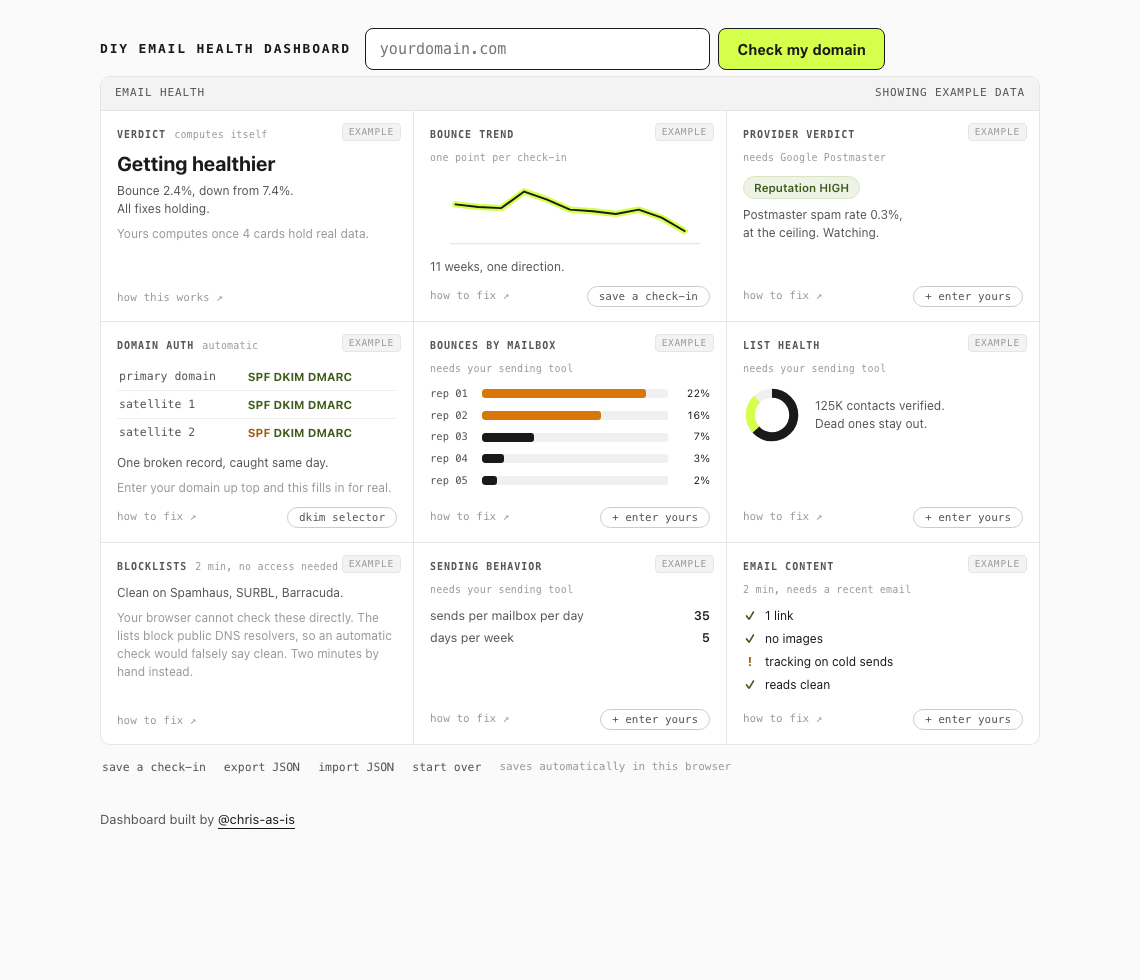
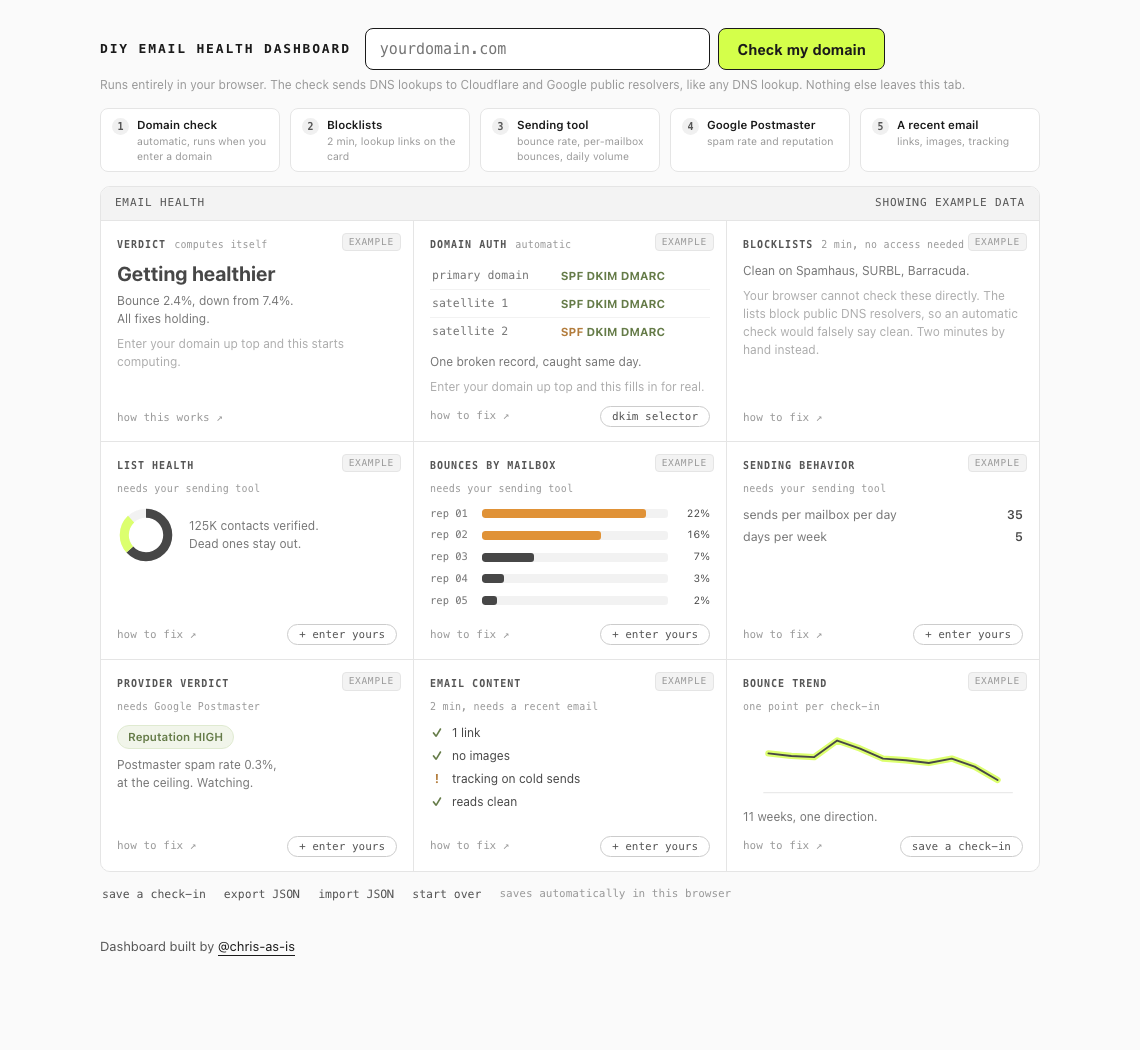
auto row on top (verdict/auth/blocklists), ungated early-read verdict, trust line under CTA, raw records toggle
Panel-driven: verdict computes from real cards immediately, headline from
auth findings; sending-tool trio row 2; provider/content/trend row 3.

Claude-Session: https://claude.ai/code/session_016zrwqH3m7942cdaawiKVr4

diff --git a/index.html b/index.html
@@ -81,8 +81,30 @@
   }
   .domain-form button:hover { background: #c8f53a; }
   .domain-form button:disabled { opacity: 0.5; cursor: default; }
-  .tagline { font-size: 13px; color: var(--ink-soft); margin: 0 0 18px; }
-  .tagline a { color: var(--ink-soft); }
+  .trustline { font-size: 12px; color: var(--ink-faint); margin: 2px 0 14px; }
+
+  /* raw records disclosure */
+  .raw { margin-top: 9px; }
+  .raw summary {
+    font-family: var(--mono);
+    font-size: 10.5px;
+    color: var(--ink-faint);
+    cursor: pointer;
+    user-select: none;
+  }
+  .raw summary:hover { color: var(--ink); }
+  .raw-rec {
+    font-family: var(--mono);
+    font-size: 10px;
+    color: var(--ink-soft);
+    background: #f7f7f7;
+    border-radius: 6px;
+    padding: 7px 9px;
+    margin: 6px 0 0;
+    white-space: pre-wrap;
+    word-break: break-all;
+    line-height: 1.55;
+  }
 
   /* ---------- scan log ---------- */
   .scan {
@@ -492,6 +514,7 @@
       <button type="submit" id="checkBtn">Check my domain</button>
     </form>
   </div>
+  <p class="trustline">Runs entirely in your browser. The check sends DNS lookups to Cloudflare and Google public resolvers, like any DNS lookup. Nothing else leaves this tab.</p>
 
   <div class="scan" id="scan" role="status" aria-live="polite"></div>
 
@@ -501,6 +524,7 @@
     <div class="dash-bar"><span>email health</span><span id="barRight">updated by you</span></div>
     <div class="grid" id="grid">
 
+
       <div class="card" id="card-verdict">
         <div class="card-head"><span class="card-h">Verdict</span><span class="chip">computes itself</span></div>
         <div class="card-body" id="body-verdict"></div>
@@ -509,6 +533,77 @@
           <span></span>
         </div>
       </div>
+
+
+      <div class="card" id="card-auth">
+        <div class="card-head"><span class="card-h">Domain auth</span><span class="chip">automatic</span></div>
+        <div class="card-body" id="body-auth"></div>
+        <div class="card-foot">
+          <a class="fix-link" href="https://chris-as-is.com/projects/spam-jail#domain-auth" target="_blank" rel="noopener" data-tip="Add missing SPF, DKIM, or DMARC records at your DNS provider. DMARC reports should be sent to a monitored inbox.">how to fix &#8599;</a>
+          <button class="edit-link" data-pop="auth">dkim selector</button>
+        </div>
+      </div>
+
+
+      <div class="card" id="card-blocklists">
+        <div class="card-head"><span class="card-h">Blocklists</span><span class="chip">2 min, no access needed</span></div>
+        <div class="card-body" id="body-blocklists"></div>
+        <div class="card-foot">
+          <a class="fix-link" href="https://chris-as-is.com/projects/spam-jail#blocklists" target="_blank" rel="noopener" data-tip="If a domain is listed, follow that blocklist's removal process before making other changes.">how to fix &#8599;</a>
+          <span></span>
+        </div>
+      </div>
+
+
+      <div class="card" id="card-list">
+        <div class="card-head"><span class="card-h">List health</span><span class="chip">needs your sending tool</span></div>
+        <div class="card-body" id="body-list"></div>
+        <div class="card-foot">
+          <a class="fix-link" href="https://chris-as-is.com/projects/spam-jail#list-health" target="_blank" rel="noopener" data-tip="Verify email addresses before sending and remove addresses that fail verification. Bounce rate falls as invalid addresses leave the list.">how to fix &#8599;</a>
+          <button class="edit-link" data-pop="list">+ enter yours</button>
+        </div>
+      </div>
+
+
+      <div class="card" id="card-mailboxes">
+        <div class="card-head"><span class="card-h">Bounces by mailbox</span><span class="chip">needs your sending tool</span></div>
+        <div class="card-body" id="body-mailboxes"></div>
+        <div class="card-foot">
+          <a class="fix-link" href="https://chris-as-is.com/projects/spam-jail#mailbox-health" target="_blank" rel="noopener" data-tip="Identify mailboxes with high bounce rates, remove the invalid addresses they emailed, and reduce their sending until rates recover.">how to fix &#8599;</a>
+          <button class="edit-link" data-pop="mailboxes">+ enter yours</button>
+        </div>
+      </div>
+
+
+      <div class="card compact" id="card-sending">
+        <div class="card-head"><span class="card-h">Sending behavior</span><span class="chip">needs your sending tool</span></div>
+        <div class="card-body" id="body-sending"></div>
+        <div class="card-foot">
+          <a class="fix-link" href="https://chris-as-is.com/projects/spam-jail#sending-behavior" target="_blank" rel="noopener" data-tip="Lower sends per mailbox per day and spread sending across the week. Around 50 per day per mailbox is a common ceiling.">how to fix &#8599;</a>
+          <button class="edit-link" data-pop="sending">+ enter yours</button>
+        </div>
+      </div>
+
+
+      <div class="card" id="card-provider">
+        <div class="card-head"><span class="card-h">Provider verdict</span><span class="chip">needs Google Postmaster</span></div>
+        <div class="card-body" id="body-provider"></div>
+        <div class="card-foot">
+          <a class="fix-link" href="https://chris-as-is.com/projects/spam-jail#provider-verdict" target="_blank" rel="noopener" data-tip="There is no direct fix for this number. It improves as the other cards improve. Set up Google Postmaster Tools to track it.">how to fix &#8599;</a>
+          <button class="edit-link" data-pop="provider">+ enter yours</button>
+        </div>
+      </div>
+
+
+      <div class="card compact" id="card-content">
+        <div class="card-head"><span class="card-h">Email content</span><span class="chip">2 min, needs a recent email</span></div>
+        <div class="card-body" id="body-content"></div>
+        <div class="card-foot">
+          <a class="fix-link" href="https://chris-as-is.com/projects/spam-jail#email-content" target="_blank" rel="noopener" data-tip="Use plain text with at most one link. Disable open and click tracking on cold outreach.">how to fix &#8599;</a>
+          <button class="edit-link" data-pop="content">+ enter yours</button>
+        </div>
+      </div>
+
 
       <div class="card" id="card-trend">
         <div class="card-head"><span class="card-h">Bounce trend</span><span class="chip">one point per check-in</span></div>
@@ -520,68 +615,6 @@
         </div>
       </div>
 
-      <div class="card" id="card-provider">
-        <div class="card-head"><span class="card-h">Provider verdict</span><span class="chip">needs Google Postmaster</span></div>
-        <div class="card-body" id="body-provider"></div>
-        <div class="card-foot">
-          <a class="fix-link" href="https://chris-as-is.com/projects/spam-jail#provider-verdict" target="_blank" rel="noopener" data-tip="There is no direct fix for this number. It improves as the other cards improve. Set up Google Postmaster Tools to track it.">how to fix &#8599;</a>
-          <button class="edit-link" data-pop="provider">+ enter yours</button>
-        </div>
-      </div>
-
-      <div class="card" id="card-auth">
-        <div class="card-head"><span class="card-h">Domain auth</span><span class="chip">automatic</span></div>
-        <div class="card-body" id="body-auth"></div>
-        <div class="card-foot">
-          <a class="fix-link" href="https://chris-as-is.com/projects/spam-jail#domain-auth" target="_blank" rel="noopener" data-tip="Add missing SPF, DKIM, or DMARC records at your DNS provider. DMARC reports should be sent to a monitored inbox.">how to fix &#8599;</a>
-          <button class="edit-link" data-pop="auth">dkim selector</button>
-        </div>
-      </div>
-
-      <div class="card" id="card-mailboxes">
-        <div class="card-head"><span class="card-h">Bounces by mailbox</span><span class="chip">needs your sending tool</span></div>
-        <div class="card-body" id="body-mailboxes"></div>
-        <div class="card-foot">
-          <a class="fix-link" href="https://chris-as-is.com/projects/spam-jail#mailbox-health" target="_blank" rel="noopener" data-tip="Identify mailboxes with high bounce rates, remove the invalid addresses they emailed, and reduce their sending until rates recover.">how to fix &#8599;</a>
-          <button class="edit-link" data-pop="mailboxes">+ enter yours</button>
-        </div>
-      </div>
-
-      <div class="card" id="card-list">
-        <div class="card-head"><span class="card-h">List health</span><span class="chip">needs your sending tool</span></div>
-        <div class="card-body" id="body-list"></div>
-        <div class="card-foot">
-          <a class="fix-link" href="https://chris-as-is.com/projects/spam-jail#list-health" target="_blank" rel="noopener" data-tip="Verify email addresses before sending and remove addresses that fail verification. Bounce rate falls as invalid addresses leave the list.">how to fix &#8599;</a>
-          <button class="edit-link" data-pop="list">+ enter yours</button>
-        </div>
-      </div>
-
-      <div class="card compact" id="card-blocklists">
-        <div class="card-head"><span class="card-h">Blocklists</span><span class="chip">2 min, no access needed</span></div>
-        <div class="card-body" id="body-blocklists"></div>
-        <div class="card-foot">
-          <a class="fix-link" href="https://chris-as-is.com/projects/spam-jail#blocklists" target="_blank" rel="noopener" data-tip="If a domain is listed, follow that blocklist's removal process before making other changes.">how to fix &#8599;</a>
-          <span></span>
-        </div>
-      </div>
-
-      <div class="card compact" id="card-sending">
-        <div class="card-head"><span class="card-h">Sending behavior</span><span class="chip">needs your sending tool</span></div>
-        <div class="card-body" id="body-sending"></div>
-        <div class="card-foot">
-          <a class="fix-link" href="https://chris-as-is.com/projects/spam-jail#sending-behavior" target="_blank" rel="noopener" data-tip="Lower sends per mailbox per day and spread sending across the week. Around 50 per day per mailbox is a common ceiling.">how to fix &#8599;</a>
-          <button class="edit-link" data-pop="sending">+ enter yours</button>
-        </div>
-      </div>
-
-      <div class="card compact" id="card-content">
-        <div class="card-head"><span class="card-h">Email content</span><span class="chip">2 min, needs a recent email</span></div>
-        <div class="card-body" id="body-content"></div>
-        <div class="card-foot">
-          <a class="fix-link" href="https://chris-as-is.com/projects/spam-jail#email-content" target="_blank" rel="noopener" data-tip="Use plain text with at most one link. Disable open and click tracking on cold outreach.">how to fix &#8599;</a>
-          <button class="edit-link" data-pop="content">+ enter yours</button>
-        </div>
-      </div>
 
     </div>
   </div>
@@ -735,8 +768,10 @@ async function checkAuth(domain, customSelector) {
     notes.push('no SPF record');
   }
 
+  result.dkimProbed = selectors;
   if (dmarcRecs.length) {
     result.dmarc = true;
+    result.dmarcRaw = dmarcRecs[0];
     const d = dmarcRecs[0];
     const p = (d.match(/;\s*p\s*=\s*(\w+)/i) || [])[1];
     const sp = (d.match(/sp\s*=\s*(\w+)/i) || [])[1];
@@ -963,24 +998,24 @@ function computeVerdict() {
     .filter(k => st[k]).length + (st.providerUnavailable ? 1 : 0);
 
   const missing = [];
-  if (!st.auth) missing.push('no domain check yet');
-  if (!st.provider && !st.providerUnavailable) missing.push('no provider data yet');
-  if (!st.list) missing.push('no bounce rate yet');
-  if (!st.blocklists) missing.push('blocklists unchecked');
-  if (!st.mailboxes) missing.push('no mailbox data yet');
-  if (!st.sending) missing.push('no sending numbers yet');
-  if (!st.content) missing.push('content unchecked');
+  if (!st.auth) missing.push('domain check');
+  if (!st.blocklists) missing.push('blocklists');
+  if (!st.list) missing.push('bounce rate');
+  if (!st.mailboxes) missing.push('mailbox data');
+  if (!st.sending) missing.push('sending volume');
+  if (!st.provider && !st.providerUnavailable) missing.push('provider data');
+  if (!st.content) missing.push('email content');
 
-  if (realCount < 4) {
+  // Grade whatever is real, the moment anything is. Never gate the payoff.
+  if (!realCount) {
     return { ready: false, realCount, missing };
   }
 
   const issues = [];
   let severe = false;
   if (st.auth) {
-    S.auth.domains.forEach(d => {
-      if (!d.spf || !d.dmarc) issues.push(`auth broken on ${d.domain}`);
-    });
+    const brokenDoms = S.auth.domains.filter(d => !d.spf || !d.dmarc).map(d => d.domain);
+    if (brokenDoms.length) issues.push(`Auth broken on ${brokenDoms.join(', ')}`);
   }
   if (st.blocklists) {
     Object.entries(S.cards.blocklists).forEach(([dom, v]) => {
@@ -1007,10 +1042,15 @@ function computeVerdict() {
     if (flags >= 2) issues.push('content has spam signals');
   }
 
+  const authBroken = st.auth ? S.auth.domains.filter(d => !d.spf || !d.dmarc) : [];
+  const listed = st.blocklists && Object.values(S.cards.blocklists).includes('listed');
+
   let big, tier;
-  if (severe || issues.length >= 3) { big = 'In trouble'; tier = 'bad'; }
+  if (listed) { big = 'On a blocklist'; tier = 'bad'; }
+  else if (severe || issues.length >= 3) { big = 'In trouble'; tier = 'bad'; }
+  else if (authBroken.length) { big = authBroken.length + ' domain' + (authBroken.length > 1 ? 's' : '') + ' failing auth'; tier = 'warn'; }
   else if (issues.length) { big = 'Needs attention'; tier = 'warn'; }
-  else { big = 'Looking healthy'; tier = 'ok'; }
+  else { big = realCount >= 4 ? 'Looking healthy' : 'No red flags yet'; tier = 'ok'; }
 
   return { ready: true, realCount, missing, issues, big, tier };
 }
@@ -1020,17 +1060,17 @@ function renderVerdict() {
   const v = computeVerdict();
   if (!v.ready) {
     setTag('card-verdict', true);
-    const entered = v.realCount;
     el.innerHTML = `<div class="big">${EXAMPLE.verdict.big}</div>
       <div class="sub">${EXAMPLE.verdict.sub}</div>
-      <div class="sub" style="color:var(--ink-faint)">Yours computes once 4 cards hold real data. ${entered ? entered + ' so far.' : ''}</div>`;
+      <div class="sub" style="color:var(--ink-faint)">Enter your domain up top and this starts computing.</div>`;
     return;
   }
   setTag('card-verdict', false);
   const parts = [];
+  if (v.realCount < 4) parts.push(`Early read from ${v.realCount} of 7 cards.`);
   if (v.issues.length) parts.push(v.issues.slice(0, 3).map(esc).join('. ') + '.');
-  else parts.push('No red flags in the data entered. Green auth means passing records, not inbox placement.');
-  if (v.missing.length) parts.push(`<span style="color:var(--ink-faint)">Still missing: ${esc(v.missing.slice(0, 2).join(', '))}.</span>`);
+  else parts.push('No red flags in the data so far. Passing DNS records do not guarantee inbox placement.');
+  if (v.missing.length) parts.push(`<span style="color:var(--ink-faint)">Unchecked: ${esc(v.missing.slice(0, 3).join(', '))}${v.missing.length > 3 ? ' + ' + (v.missing.length - 3) + ' more' : ''}.</span>`);
   el.innerHTML = `<div class="big">${v.big}</div><div class="sub">${parts.join('<br>')}</div>`;
 }
 
@@ -1173,8 +1213,19 @@ function renderAuth() {
     const parts = [S.stack.label, ...(S.stack.tools || [])].filter(Boolean);
     stackLine = `<div class="sub">Detected stack: ${esc(parts.join(', '))}. Instructions in the other cards follow this.</div>`;
   }
+  const rawBlocks = S.auth.domains.map(d => {
+    const dkimLine2 = d.dkim
+      ? `DKIM:  found on selector "${d.dkimSelector}"`
+      : `DKIM:  no record on probed selectors: ${(d.dkimProbed || []).join(', ')}`;
+    return `<div class="raw-rec">${esc(d.domain)}
+MX:    ${esc((d.mxHosts || []).join(', ') || 'no record')}
+SPF:   ${esc(d.spfRaw || 'no record')}
+DMARC: ${esc(d.dmarcRaw || 'no record')}
+${esc(dkimLine2)}</div>`;
+  }).join('');
   el.innerHTML = `<table class="auth-table">${rows}</table>${stackLine}
-    <div class="sub" style="color:var(--ink-faint)">${sweepNote} Re-checked ${new Date(S.auth.checkedAt).toLocaleDateString()}.</div>`;
+    <div class="sub" style="color:var(--ink-faint)">${sweepNote} Re-checked ${new Date(S.auth.checkedAt).toLocaleDateString()}.</div>
+    <details class="raw"><summary>raw records (verify with dig yourself)</summary>${rawBlocks}</details>`;
   el.querySelectorAll('[data-rmsat]').forEach(btn => {
     btn.addEventListener('click', () => {
       const dom = btn.dataset.rmsat;
